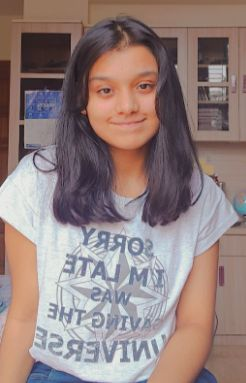
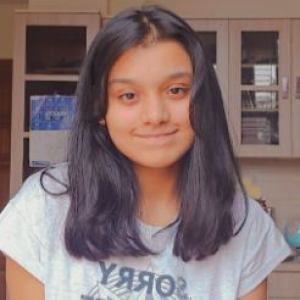
Complete About

diff --git a/components/About.js b/components/About.js
@@ -1,5 +1,6 @@
 // Import
 import business_plan_list from "../public/buisness_plan";
+import Image from "next/image";
 
 // Export About
 export default function About() {
@@ -21,6 +22,47 @@ export default function About() {
             </div>
           );
         })}
+      </div>
+
+      <h1 id="creators-heading">Creators</h1>
+
+      <div id="creators">
+        <div className="creator-box">
+          <Image
+            className="creator-img"
+            src="/Aahan.png"
+            width="300px"
+            height="300px"
+          />
+          <h3>Aahan Agarwal</h3>
+        </div>
+
+        <div className="creator-box">
+          <Image
+            className="creator-img"
+            src="/Shivanya.png"
+            width="300px"
+            height="300px"
+          />
+          <h3>Shivanya Chandra</h3>
+        </div>
+
+        <div className="creator-box">
+          <Image
+            className="creator-img"
+            src="/Daksh.png"
+            width="300px"
+            height="300px"
+          />
+          <h3>Daksh Srivasta</h3>
+        </div>
+      </div>
+
+      <div id="footer">
+        <p>
+          Copyright © <span>Recipe Safari</span> | Made with{" "}
+          <span id="heart">❤</span> by <span>eSpice</span>
+        </p>
       </div>
     </section>
   );

diff --git a/styles/ouraim.css b/styles/ouraim.css
@@ -1,7 +1,8 @@
 .ouraim {
   padding: 2rem;
-  padding-bottom: 400px;
+  padding-bottom: 200px;
   margin: 0 auto;
+  padding-top: 100px;
   max-width: 800px;
   overflow-x: hidden;
 }
@@ -18,7 +19,7 @@
   width: 2px;
   top: -50px;
   bottom: -50px;
-  background-color: #fff;
+  background-color: var(--secondary);
   display: none;
 }
 
@@ -30,7 +31,7 @@
   height: 1rem;
   width: 1rem;
   border-radius: 50%;
-  background-color: #fff;
+  background-color: var(--secondary);
   left: 50%;
   transform: translateX(-50%);
 }
@@ -42,7 +43,6 @@
   transition: 600ms ease;
   position: relative;
   z-index: 1;
-  margin: 50px 0;
   padding: 1rem;
   border-radius: 1rem;
   align-items: center;
@@ -60,7 +60,7 @@
   height: 1rem;
   width: 1rem;
   border-radius: 50%;
-  background-color: #fff;
+  background-color: var(--secondary);
   left: 50%;
   top: 20%;
   transform: translateX(-50%);
@@ -68,6 +68,10 @@
 
 .ouraim__text {
   width: calc(50% - 2rem);
+}
+
+.ouraim__text > h2 {
+  margin: 0;
 }
 
 .show-me:nth-child(n) {

diff --git a/styles/about.css b/styles/about.css
@@ -1,8 +1,4 @@
 /* About */
-#about {
-  margin-top: 120px;
-}
-
 #business_plan > h1 {
   font-family: "Inter";
   font-size: 60px;
@@ -24,4 +20,53 @@
   color: var(--primary);
   font-size: 96px;
   margin: 0 50px;
+}
+
+#creators-heading {
+  font-family: "Inter";
+  font-size: 60px;
+  color: var(--primary);
+  display: block;
+  text-align: center;
+  margin: 10px 0;
+}
+
+#creators {
+  display: flex;
+  text-align: center;
+  justify-content: space-around;
+  align-items: center;
+  flex-direction: row;
+  flex-wrap: wrap;
+  min-width: 400px;
+}
+
+.creator-img {
+  border-radius: 25px;
+}
+
+.creator-box:hover {
+  transform: scale(1.1);
+}
+
+.creator-box {
+  display: inline-flex;
+  flex-direction: column;
+  margin-top: 50px;
+  text-align: center;
+  transition: all 0.3s;
+}
+
+#footer {
+  margin: 40px 0px;
+  text-align: center;
+}
+
+#footer > p > span {
+  color: var(--primary);
+  font-family: "Pacifico";
+}
+
+#footer > p > span#heart {
+  color: red;
 }
